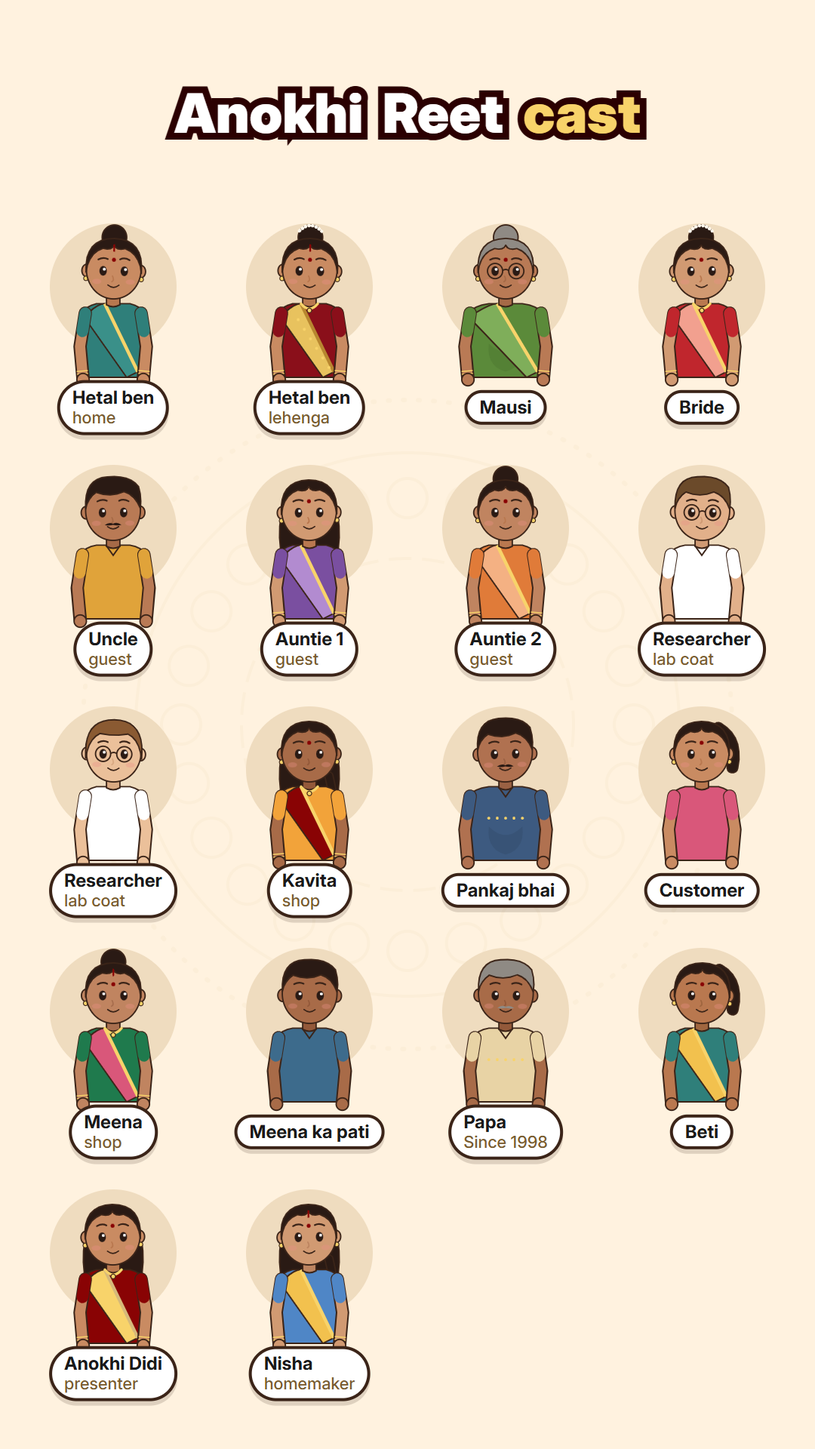
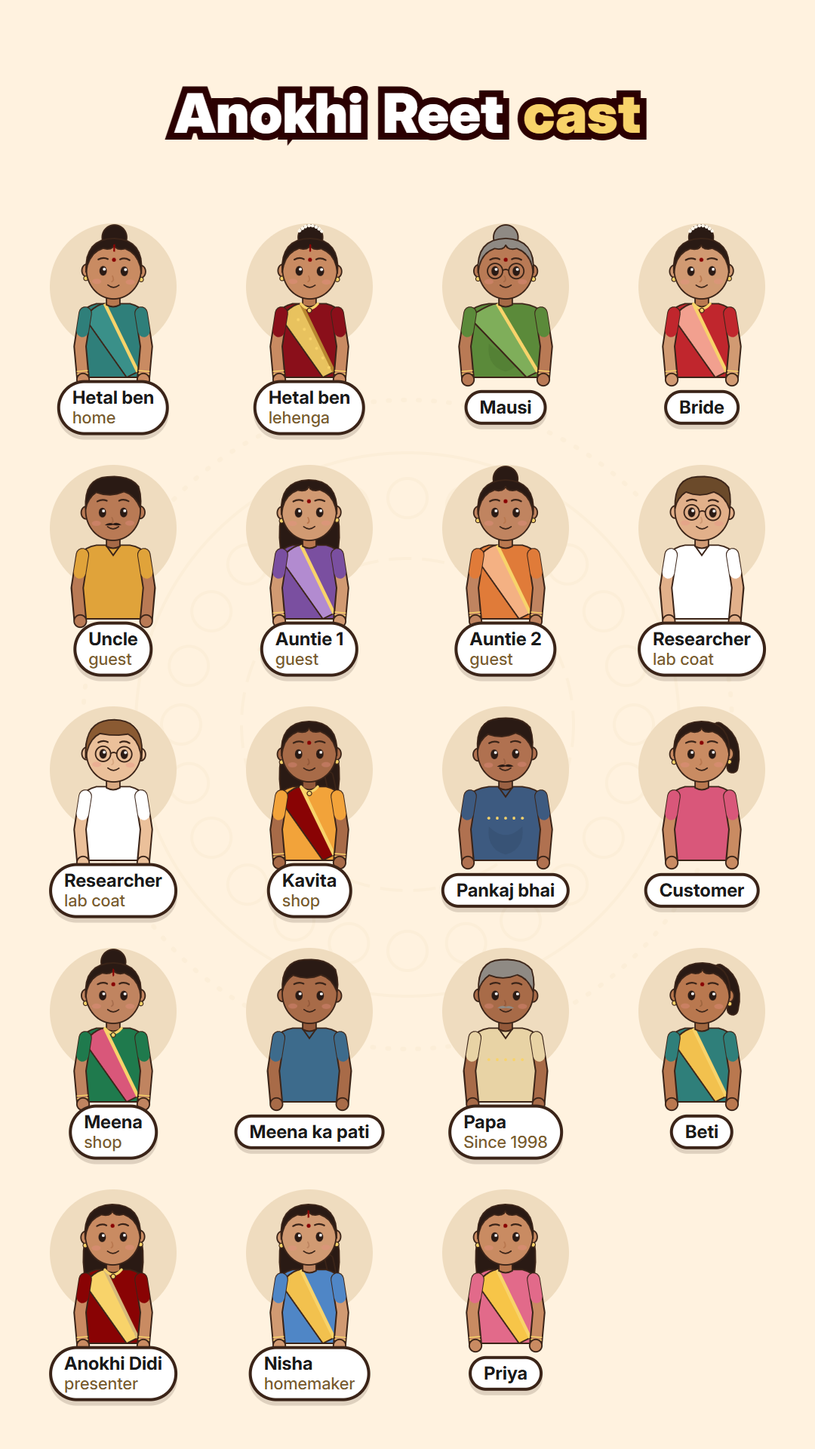
Lehenga almirah (Priya): 11 scenes + fixed counter, video 1; thought cloud, labelled jars, Priya in the library

Changed region(s): [[0.5194, 0.8125, 0.7028, 0.9688]]

diff --git a/reels/2026-11-27-lehenga-almirah/video/scenes.js b/reels/2026-11-27-lehenga-almirah/video/scenes.js
@@ -1,32 +1,152 @@
-// ===== Starter reel: copy this folder into reels/<date>-<name>/video and replace everything with your story =====
-// Characters: animation/cast/cast.js. Rooms, props, helpers: animation/engine/. Guide: animation/GUIDE.md.
+// ===== Lehenga aaya… phir almirah mein (Priya): 13 scenes + a counter fixed top-left for the whole reel =====
+// Characters: PRIYA (new). Props: thoughtCloudSVG, labelJarSVG (new); almirahSVG, coinJarSVG/jarFill, saveIconSVG, arHeader.
+const PH = PRIYA.home, PLEH = PRIYA.lehenga;
+const at = (x, y, inner, sc = 1, r = 0) => `<g transform="translate(${x},${y}) rotate(${r}) scale(${sc})">${inner}</g>`;
+const wrap = (id, inner) => `<g id="${id}">${inner}</g>`;
+const LOOKS = [[C.emerald, C.emeraldDark, '#A6D3B0'], [C.marigold, '#C9821E', '#F7C548'], [C.teal, C.tealDark, '#9ED3CF'], ['#7A4FA0', '#5D3A7E', '#B28BD0']];
+const lookOf = ([c, d, p]) => dress(PLEH, { top: c, topD: d, pallu: p, border: C.gold, skirt: { c, d, b: C.gold } });
+const dust = id => [...Array(7)].map((_, i) => `<circle id="${id}${i}" r="${26 + (i % 3) * 10}" fill="#CFC6B8" opacity="0"/>`).join('');
+function dustPuff(id, t, t0, x, y) { for (let i = 0; i < 7; i++) { const k = clamp((t - t0) / .9), a = i / 7 * Math.PI * 2; tf($(id + i), x + Math.cos(a) * k * 170, y + Math.sin(a) * k * 70 - k * 40, .5 + k); op($(id + i), k > 0 && k < 1 ? (1 - k) * .9 : 0); } }
 
-// S1 hook: the strongest picture + an outlined title in the first frame
-addScene(0, 'c3', {
-  svg: homeBG('st1', { noWindow: true, noShelf: true, noClock: true }) + `<circle cx="540" cy="800" r="420" fill="url(#glow)"/>` +
-    `<g id="st1-l">${lehengaHangerSVG('st1-lh')}</g>` +
-    `<g transform="translate(790,560)"><g data-t="c2+0.3" data-swing="9">${priceTagSVG('st1-tag', '1 baar?', 0, 0, { fs: 36 })}</g></g>`,
-  html: `<div class="title" style="top:392px">Shaadi ka outfit,<br><span class="g">kitni baar?</span></div>`,
-  cam: [1, 1.05], fy: 800,
-  upd(t) { tf($('st1-l'), 540, 720 + Math.sin(t * 1.4) * 6, 1.25, noise(t, 1) * 2, 0, -80); }
-});
-
-// S2 meet the character: name pill, a wave, eyes on camera, then a look at the outfit
-addScene('c3', 'c4', {
-  svg: homeBG('st2') + stand('st2h', dress(HETAL.home, { top: C.pink, topD: C.pinkDark, pallu: '#F4B9C8' }), 560, 940, .95),
-  html: pillH(540, 352, 'c3+0.3', 'Surat, <span class="hl">Gujarat</span>'),
+// ================= the counter, top-left, whole reel (added first so every other scene stays "current") =================
+addScene(0, 9999, {
+  html: `<div id="cnt" style="position:absolute;left:36px;top:262px;background:#fff;border:4px solid #3B2418;border-radius:22px;padding:10px 20px;font-weight:800;font-size:32px;color:#1A1A1A;box-shadow:0 6px 0 rgba(59,36,24,.16)">` +
+    `Kharcha: <span id="cnt-k" style="color:#890304">₹0</span> &nbsp;|&nbsp; <span id="cnt-l">Pehna</span>: <span id="cnt-p" style="color:#890304">0</span></div>`,
   upd(t) {
-    const w = clamp((t - T('c3')) / .35);
-    const R = [lerp(9, WAVE(t, T('c3'))[0], E.io(w)), lerp(-14, WAVE(t, T('c3'))[1], E.io(w))];
-    life('st2h', t, { mouth: 'big', brows: 'up', R, hR: w > .5 ? 'open' : 'fist', tilt: 4, look: [0.2, 0] });
-    clockTick('st2-clk', t, 50);
+    const green = t > T('c28');
+    const [k, p] = green ? ['₹10,000', '4'] : t > T('c9') ? ['₹38,000', '2'] : t > T('c3') + .4 ? ['₹19,000', '1'] : ['₹0', '0'];
+    $('cnt-k').textContent = k; $('cnt-p').textContent = p; $('cnt-l').textContent = green ? 'Looks' : 'Pehna';
+    const c = green ? '#1F7A4D' : '#890304'; $('cnt-k').style.color = c; $('cnt-p').style.color = c;
+    const box = $('cnt'); box.style.background = green ? '#E3F3EA' : '#fff'; box.style.borderColor = green ? '#1F7A4D' : '#3B2418';
+    const flips = [T('c3') + .4, T('c9'), T('c28')].map(f => clamp((t - f) / .3)).map(q => q > 0 && q < 1 ? Math.sin(q * Math.PI) : 0);
+    box.style.transform = `scale(${(1 + Math.max(...flips) * .12).toFixed(3)})`; box.style.transformOrigin = 'left center';
+    box.style.display = t < VOICE_END + .2 ? '' : 'none';
   }
 });
 
-// S3 follow card
-addScene('c4', 9999, {
-  svg: homeBG('st3', { noWindow: true, noShelf: true, noClock: true }) + rosettes('st3-r', 540, 780, .1, C.goldTan) + bust('st3h', HETAL.home, 540, FLOOR + 10, 1.1) + counterSVG(),
-  html: `<div class="follow" style="left:540px;top:500px" data-t="c4+0.2"><img class="seal" src="${SEAL()}"><span class="nm">Anokhi Reet</span><span class="btn">Follow</span></div>`,
-  noWm: true, tin: .3, trans: 'rise',
-  upd(t) { tf($('st3-r'), 540, 780, 1, t * 5); life('st3h', t, { pivot: 0, mouth: 'grin', brows: 'up', tilt: 4, L: CLASP, R: CLASP }); }
+// ================= S1: hook — a ₹19,000 lehenga, worn only ONCE =================
+addScene(0, 'c3', {
+  svg: homeBG('p1', { noWindow: true, noShelf: true, noClock: true }) + almirahSVG('a1', 840, FLOOR + 62, .9) + stand('pr1', PH, 380, 950, .9) + wrap('p1-lh', lehengaHangerSVG('p1-l', {}, .62)),
+  html: `<div class="title" style="top:500px"><span class="g">₹19,000</span> ka lehenga…<br>pehna sirf <span class="g">EK</span> baar</div>`,
+  upd(t) {
+    const turn = t > T('c2');
+    const { hr } = life('pr1', t, { look: turn ? [0.9, 0] : [0.3, -0.6], mouth: turn ? 'flat' : 'grin', brows: turn ? 'worry' : 'up', tilt: turn ? -3 : 5, R: [150, 20], hR: 'fist' });
+    const p = toScene('pr1', hr); tf($('p1-lh'), p[0] + 10, p[1] + 80, 1, noise(t, 1) * 4);
+  }
+});
+
+// ================= S2: cousin's wedding — photos ✓ compliments ✓ =================
+addScene('c3', 'c6', {
+  svg: weddingBG() + stand('pr2', PLEH, 540, 960, .9) + stand('g2a', GUEST_W1, 170, 1000, .7) + stand('g2b', GUEST_W2, 910, 1000, .7) +
+    [[300, 620], [780, 600], [540, 520]].map(([x, y], i) => `<g transform="translate(${x},${y})"><g data-t="c4+${(.3 + i * .25).toFixed(2)}" data-bob="10" data-ph="${i}">${heartPath(0, 0, 2.2)}</g></g>`).join('') +
+    `<rect id="p2-fl" width="${W}" height="${H}" fill="#fff" opacity="0"/>`,
+  html: pillH(220, 1240, 'c5', 'Photos ✓', 'green big') + pillH(680, 1240, 'c5+0.5', 'Compliments ✓', 'green big'),
+  upd(t) {
+    op($('p2-fl'), [T('c5') + .05, T('c5') + .6].some(f => t > f && t < f + .12) ? .7 : 0);
+    life('pr2', t, { mouth: 'grin', brows: 'up', tilt: 5, L: CLASP, R: CLASP, y: hop(t, T('c5') + .2, 14), blush: .5 });
+    life('g2a', t, { seed: 2, look: [0.9, 0], mouth: 'big', brows: 'up', R: [100, -100], hR: 'fist' }); life('g2b', t, { seed: 5, look: [-0.9, 0], mouth: 'grin', brows: 'up', L: [100, -100], hL: 'fist' });
+  }
+});
+
+// ================= S3: wedding over… back in the ALMIRAH (door slams, dust puff) =================
+addScene('c6', 'c8', {
+  svg: homeBG('p3', { noWindow: true, noShelf: true, noClock: true }) + almirahSVG('a3', 540, FLOOR + 62, 1.25) + wrap('p3-fly', lehengaHangerSVG('p3-l', {}, .7)) + dust('p3-d'),
+  html: `<div class="title" style="top:430px" data-t="c7+0.3">wapas <span class="g">ALMIRAH</span> mein</div>`,
+  cam: [1, 1.04],
+  upd(t) {
+    const k = E.io(clamp((t - T('c6') - .2) / .7)); tf($('p3-fly'), lerp(220, 540, k), lerp(700, FLOOR - 450, k) - Math.sin(k * Math.PI) * 120, 1); op($('p3-fly'), k < 1 ? 1 : 0);
+    const shut = E.in(clamp((t - T('c7') - .05) / .25)); tf($('a3-dL'), 0, 0, lerp(.13, 1, shut), 0, -150, 0, 1); tf($('a3-dR'), 0, 0, lerp(.13, 1, shut), 0, 150, 0, 1);
+    dustPuff('p3-d', t, T('c7') + .3, 540, FLOOR - 200);
+  }
+});
+
+// ================= S4: the next wedding — "Ye wala toh sabne photos mein dekh liya…" — new one again =================
+addScene('c8', 'c10', {
+  svg: homeBG('p4', { noWindow: true, noShelf: true, noClock: true }) + almirahSVG('a4', 790, FLOOR + 62, .95) + stand('pr4', PH, 330, 950, .9) +
+    `<g transform="translate(560,700)"><g data-t="c8" data-k="drop" data-d=".5">${at(0, 0, cardSVG('p4-card', 0, 0, 2), .62, 10)}</g></g>`,
+  html: `<div class="bubble" style="left:560px;top:450px;width:600px" data-t="c8+0.6">"Ye wala toh <span class="hl">sabne photos</span> mein dekh liya…"</div>`,
+  init() { $('a4-inside').innerHTML = `<g transform="translate(0,-330)">${lehengaHangerSVG('p4-l', {}, .75)}</g>`; },
+  upd(t) {
+    const open = E.io(clamp((t - T('c8') - .3) / .5)); tf($('a4-dL'), 0, 0, lerp(1, .13, open), 0, -150, 0, 1); tf($('a4-dR'), 0, 0, lerp(1, .13, open), 0, 150, 0, 1);
+    life('pr4', t, { look: [0.9, 0], mouth: t > T('c8') + .6 ? 'sad' : 'o', brows: 'worry', tilt: -5, R: t > T('c9') ? THINK : [9, -14], hR: 'fist' });
+  }
+});
+
+// ================= S5: open loop — money, liking… so where was the mistake? =================
+addScene('c10', 'c12', {
+  svg: `<rect width="${W}" height="${H}" fill="url(#mar)"/>` + rosettes('p5-r', 540, 900, .14, C.gold) + `<g transform="translate(540,960)"><g data-t="c11"><circle r="150" fill="${C.gold}" stroke="${OL}" stroke-width="${OW}"/><text y="70" text-anchor="middle" font-family="Inter" font-weight="900" font-size="200" fill="${C.redDark}">?</text></g></g>`,
+  html: `<div class="title" style="top:480px;font-size:72px">Paisa tha, pasand bhi tha…</div><div class="title" style="top:640px;font-size:80px" data-t="c11">toh <span class="g">galti kahan</span> hui?</div>`,
+  tin: .3, trans: 'zoom',
+  upd(t) { tf($('p5-r'), 540, 900, 1, t * 6); }
+});
+
+// ================= S6: Richard Thaler — MENTAL ACCOUNTING — money in separate jars =================
+const JARS = [['Grocery', C.teal, 260], ['Bills', '#7A6E62', 540], ['SHAADI', C.red, 820]];
+addScene('c12', 'c19', {
+  svg: homeBG('p6', { noWindow: true, noShelf: true, noClock: true, noPlant: true }) +
+    `<g id="p6-cl"><g transform="translate(540,600)"><g data-t="c12">${thoughtCloudSVG(820, 300)}<text y="-30" text-anchor="middle" font-family="Inter" font-weight="700" font-size="34" fill="#655C57">Nobel winner Richard Thaler</text><text y="36" text-anchor="middle" font-family="Inter" font-weight="900" font-size="54" fill="${C.red}">MENTAL ACCOUNTING</text></g></g></g>` +
+    JARS.map(([l, c, x], i) => `<g transform="translate(${x},1040)"><g data-t="c14+${(i * .25).toFixed(2)}" data-k="drop">${at(0, 0, labelJarSVG('p6-j' + i, l, c, 6), .78)}</g></g>`).join('') +
+    [...Array(6)].map((_, i) => `<g id="p6-o${i}" opacity="0">${i % 2 ? noteSVG() : coinSVG(0, 0, 30)}</g>`).join(''),
+  html: `<div class="title" style="top:600px;font-size:66px;opacity:0" id="p6-m">₹19,000 ÷ 1 baar =<br><span class="g">₹19,000 per look</span></div>`,
+  upd(t) {
+    jarFill('p6-j0j', 3, t, T('c14') + .4, .6); jarFill('p6-j1j', 4, t, T('c14') + .6, .6); jarFill('p6-j2j', 6, t, T('c15') + .2, 1.0);
+    for (let i = 0; i < 6; i++) { const q = ((t - T('c16') - i * .3) % 1.8) / 1.8; tf($('p6-o' + i), 820 + (i - 2.5) * 30 + q * (i - 2.5) * 50, 930 - E.out(clamp(q)) * 200, .8, (i - 2.5) * q * 40); op($('p6-o' + i), t > T('c16') && q > 0 ? 1 - q : 0); }
+    const mm = clamp((t - T('c18')) / .3); $('p6-m').style.opacity = mm.toFixed(2); op($('p6-cl'), 1 - mm);
+  }
+});
+
+// ================= S7: the renter's fear — answered: Verified profiles ✓ =================
+addScene('c19', 'c23', {
+  svg: homeBG('p7', { noWindow: true, noShelf: true, noClock: true }) + bust('pr7', PH, 540, FLOOR + 30, 1.05) + counterSVG(),
+  html: `<div class="bubble" style="left:250px;top:470px" data-t="c19">"Rent?"</div>` + `<div class="bubble" style="left:760px;top:560px" data-t="c19+0.5">"Fit nahi aaya toh?"</div>` + `<div class="bubble" style="left:330px;top:660px" data-t="c20">"Kaun hai owner?"</div>` +
+    pillH(540, 1240, 'c22', '✓ Verified profiles', 'green big'),
+  upd(t) { const ok = t > T('c22') + .2; life('pr7', t, { pivot: 0, look: ok ? [0, 0.4] : [Math.sin(t * 2) * .7, -0.5], mouth: ok ? 'smile' : 'worry', brows: ok ? 'up' : 'worry', tilt: ok ? 4 : -5, R: ok ? [9, -14] : THINK, hR: 'fist', sweat: ok ? 0 : .8 }); }
+});
+
+// ================= S8: this time Priya rented the same designer lehenga on Anokhi Reet… ₹2,500 =================
+addScene('c23', 'c26', {
+  svg: homeBG('p8', { noWindow: true, noShelf: true, noClock: true }) + bust('pr8', PH, 250, FLOOR + 40, .85) + counterSVG() +
+    at(700, 820, phoneSVG('p8-ph', 0, 0, 560, 1000, arHeader() +
+      `<rect x="-240" y="-370" width="480" height="430" rx="20" fill="${C.cream}"/><g transform="translate(0,-230) scale(.62)">${lehengaHangerSVG('', {})}</g>` +
+      `<text x="-230" y="110" font-family="Inter" font-weight="900" font-size="36" fill="#141110">Designer lehenga</text>` +
+      `<g data-t="c24"><text x="-230" y="170" font-family="Inter" font-weight="700" font-size="32" fill="#9C928A" text-decoration="line-through">MRP ₹19,000</text></g>` +
+      `<g data-t="c25-0.1"><rect x="-240" y="200" width="300" height="76" rx="38" fill="#E3F3EA" stroke="#1F7A4D" stroke-width="3"/><text x="-90" y="252" text-anchor="middle" font-family="Inter" font-weight="900" font-size="38" fill="#1F7A4D">Rent ₹2,500</text></g>` +
+      `<rect x="-240" y="310" width="480" height="76" rx="38" fill="url(#mar)"/><text x="0" y="360" text-anchor="middle" font-family="Inter" font-weight="800" font-size="32" fill="#FFF2DF">Book karo</text>`), .78),
+  upd(t) { life('pr8', t, { pivot: 0, look: [0.9, 0], mouth: t > T('c25') ? 'grin' : 'smile', brows: 'up', tilt: 4, R: [70, 4], hR: 'point' }); }
+});
+
+// ================= S9: next 4 weddings, 4 different lehengas — total ₹10,000 =================
+const GRID = [[270, 700], [810, 700], [270, 1110], [810, 1110]];
+addScene('c26', 'c29', {
+  svg: `<rect width="${W}" height="${H}" fill="${C.cream}"/>` + GRID.map(([x, y], i) => `<g transform="translate(${x},${y})"><g data-t="c26+${(.3 + i * .35).toFixed(2)}"><rect x="-250" y="-200" width="500" height="400" rx="26" fill="${['#F7DCC8', '#F3E3C0', '#E6F2EE', '#EEE3F3'][i]}" stroke="${OL}" stroke-width="${OW}"/><clipPath id="p9c${i}"><rect x="-250" y="-200" width="500" height="400" rx="26"/></clipPath><g clip-path="url(#p9c${i})">${bust('pr9' + i, lookOf(LOOKS[i]), 0, 330, .7)}</g><g transform="translate(-200,-150)"><circle r="34" fill="url(#mar)" stroke="${OL}" stroke-width="3"/><text y="12" text-anchor="middle" font-family="Inter" font-weight="900" font-size="34" fill="${C.gold}">${i + 1}</text></g></g></g>`).join(''),
+  html: `<div class="title" style="top:420px" data-t="c27">4 shaadi, <span class="g">4 looks</span></div>`,
+  upd(t) { for (let i = 0; i < 4; i++) life('pr9' + i, t, { pivot: 0, seed: i, mouth: 'grin', brows: 'up', tilt: i % 2 ? -4 : 4, L: CLASP, R: CLASP }); }
+});
+
+// ================= S10: the lesson =================
+addScene('c29', 'c32', {
+  svg: `<rect width="${W}" height="${H}" fill="${C.cream}"/>` + rosettes('p10-r', 540, 880, .12, C.goldTan) + `<rect x="0" y="${FLOOR + 80}" width="${W}" height="${H}" fill="#F3E3C0"/>` + stand('pr10', lookOf(LOOKS[1]), 540, 1000, .82),
+  html: `<div class="title" style="top:390px;font-size:50px" data-t="c29">Lehenga khareedna <span class="g">zaroori nahi</span>…</div>` +
+    `<div class="title" style="top:490px;font-size:56px" data-t="c30">har function mein <span class="g">NAYA</span> dikhna!</div>`,
+  tin: .35, trans: 'fade', cam: [1, 1.04],
+  upd(t) { tf($('p10-r'), 540, 880, 1, t * 5); const o = E.io(clamp((t - T('c30')) / .5)); life('pr10', t, { mouth: 'grin', brows: 'sure', tilt: 3, sway: 2.4, L: [lerp(9, 62, o), lerp(-14, -36, o)], R: [lerp(9, 62, o), lerp(-14, -36, o)], hL: o > .5 ? 'open' : 'fist', hR: o > .5 ? 'open' : 'fist' }); }
+});
+
+// ================= S11: save, send to a friend, comment LEHENGA; link in bio + follow =================
+addScene('c32', 9999, {
+  svg: homeBG('p11', { noWindow: true, noShelf: true, noClock: true }) + rosettes('p11-r', 540, 780, .08, C.goldTan) + bust('pr11', lookOf(LOOKS[0]), 540, FLOOR + 10, 1.1) + counterSVG() +
+    `<g transform="translate(870,620)"><g data-t="c33+0.3" data-out="c38+0.4" data-swing="8">${saveIconSVG()}</g></g>`,
+  html: pillH(870, 740, 'c33+0.5', '<span class="hl">SAVE</span> karo', 'gold', 'c38+0.4') + pillH(540, 380, 'c34', 'Friend ko <span class="hl">bhejo</span> 📩', 'big', 'c37-0.05') +
+    `<div class="pill big" style="left:540px;top:380px" data-t="c37">Comment <span class="hl">LEHENGA</span> 👇</div>` +
+    `<div class="pill" style="left:540px;top:480px" data-t="c38">🔗 Link in bio</div>` +
+    `<div class="follow" style="left:540px;top:600px" data-t="c38+0.6"><img class="seal" src="${SEAL()}"><span class="nm">Anokhi Reet</span><span class="btn" id="p11-b"><span id="p11-f">Follow</span></span></div>`,
+  noWm: true,
+  upd(t) {
+    tf($('p11-r'), 540, 780, 1, t * 5);
+    const w = clamp((t - T('c37')) / .4), pt = t > T('c33') && t < T('c34');
+    life('pr11', t, { pivot: 0, mouth: 'big', brows: 'up', tilt: 4, look: pt ? [0.8, -0.4] : [0, 0], R: pt ? [100, -10] : [lerp(9, WAVE(t, T('c37'))[0], E.io(w)), lerp(-14, WAVE(t, T('c37'))[1], E.io(w))], hR: pt ? 'point' : (w > .5 ? 'open' : 'fist') });
+    const tp = VOICE_END + .6, press = t > tp && t < tp + .25 ? .92 : 1;
+    const b = $('p11-b'); b.style.transform = `scale(${press})`; b.style.display = 'inline-block';
+    const done = t > tp + .12; $('p11-f').textContent = done ? 'Following ✓' : 'Follow'; b.style.background = done ? '#E3F3EA' : '#890304'; b.style.color = done ? '#1F7A4D' : '#FFF2DF';
+  }
 });

diff --git a/reels/2026-11-27-lehenga-almirah/video/captions.js b/reels/2026-11-27-lehenga-almirah/video/captions.js
@@ -1,11 +1,89 @@
 // Caption chunks: [id, Roman Hinglish caption (*gold* words), number of script.txt words it covers]
-// tools/caption_timing.py fills STARTS / VOICE_END / DURATION from the voice (re-run after every voice take).
+// tools/caption_timing.py fills STARTS / WORDS / VOICE_END / DURATION from the voice (re-run after every voice take).
 const CHUNKS = [
-  ['c1', 'Ek *sawaal*:', 2],
-  ['c2', 'shaadi ka outfit *kitni baar* pehnte ho?', 6],
-  ['c3', 'Ye hain *Hetal ben*.', 4],
-  ['c4', 'Follow karo *Anokhi Reet.*', 4],
+  ['c1', '*₹19,000* ka lehenga...', 4],
+  ['c2', 'pehna sirf *ek baar.*', 4],
+  ['c3', 'Priya ne cousin ki shaadi ke liye', 7],
+  ['c4', 'naya lehenga liya.', 3],
+  ['c5', 'Photos... compliments... sab mila.', 4],
+  ['c6', 'Shaadi khatam...', 2],
+  ['c7', 'aur lehenga, wapas *almari* mein.', 5],
+  ['c8', 'Agli shaadi aayi...', 3],
+  ['c9', 'aur phir se *naya* chahiye.', 5],
+  ['c10', 'Paisa tha, pasand bhi tha...', 5],
+  ['c11', 'toh *galti kahan* hui?', 4],
+  ['c12', 'Nobel winner *Richard Thaler* kehte hain...', 6],
+  ['c13', 'hum paise ko alag-alag', 4],
+  ['c14', '*dabbon* mein rakhte hain.', 4],
+  ['c15', '"Shaadi ke dabbe" mein', 4],
+  ['c16', '₹19,000 *normal* lagta hai.', 5],
+  ['c17', 'Par asli sawaal hai...', 4],
+  ['c18', '*per wear* kitna pada?', 4],
+  ['c19', '"Rent? Fit nahi aaya toh?', 5],
+  ['c20', 'Kaun hai owner?"', 3],
+  ['c21', 'Yahi *darr* hume', 3],
+  ['c22', 'rent karne se rokta hai.', 5],
+  ['c23', 'Is baar Priya ne *Anokhi Reet* pe', 7],
+  ['c24', 'wahi designer lehenga rent kiya...', 5],
+  ['c25', '*₹2,500* mein.', 3],
+  ['c26', 'Agli chaar shaadi,', 3],
+  ['c27', '*chaar alag* lehenge...', 3],
+  ['c28', 'total *₹10,000.*', 3],
+  ['c29', 'Lehenga khareedna zaroori nahi...', 4],
+  ['c30', 'har function mein *naya*', 4],
+  ['c31', 'dikhna zaroori hai.', 3],
+  ['c32', 'Shaadi season se pehle', 4],
+  ['c33', 'is reel ko *save* karo,', 5],
+  ['c34', 'aur us friend ko bhejo', 5],
+  ['c35', 'jo har shaadi ke liye', 5],
+  ['c36', 'naya leti hai.', 3],
+  ['c37', '*LEHENGA* comment karo...', 3],
+  ['c38', 'link DM karte hain.', 4],
 ];
-// Chunk start times (s): placeholder until a voice exists.
-const STARTS = [0.2, 1.6, 4.4, 6.6];
-const VOICE_END = 8.6, DURATION = 9.6;
+
+// Chunk start times (s): tools/caption_timing.py (faster-whisper, 147 of 157 words matched), voice female-lehenga-almirah-take1.mp3.
+const STARTS = [
+  0.19, 1.62, 3.28, 5.28, 6.04, 8.37, 8.96, 11.31, 12.27, 13.26, 15.26, 16.60, 19.20, 20.36, 21.46, 22.42,
+  24.01, 25.16, 27.01, 28.84, 30.30, 30.96, 32.47, 34.42, 35.86, 37.44, 38.70, 39.75, 41.08, 43.06, 44.18, 45.17,
+  46.32, 47.56, 48.46, 49.44, 50.44, 51.66];
+// When each script word of a chunk is spoken (drives the word-by-word highlight).
+const WORDS = [
+  [0.27, 0.82, 1.18, 1.32],
+  [1.7, 2.46, 2.94, 3.06],
+  [3.36, 4.13, 4.32, 4.74, 4.88, 5.12, 5.24],
+  [5.36, 5.56, 5.88],
+  [6.12, 7.02, 7.82, 7.94],
+  [8.45, 8.5],
+  [9.04, 9.48, 9.9, 10.54, 10.88],
+  [11.39, 11.44, 11.9],
+  [12.35, 12.4, 12.74, 12.9, 13.1],
+  [13.34, 14.26, 14.6, 15.04, 15.16],
+  [15.34, 15.76, 16.26, 16.54],
+  [16.68, 17.64, 17.92, 18.34, 18.62, 18.92],
+  [19.28, 19.42, 19.82, 19.98],
+  [20.44, 20.74, 20.82, 21.06],
+  [21.54, 21.92, 22.08, 22.34],
+  [22.5, 22.88, 23.18, 23.48, 23.74],
+  [24.09, 24.14, 24.8, 25.1],
+  [25.24, 25.61, 26.22, 26.54],
+  [27.09, 27.72, 28.05, 28.44, 28.66],
+  [28.92, 29.27, 29.62],
+  [30.38, 30.6, 30.82],
+  [31.04, 31.34, 31.6, 31.78, 32.16],
+  [32.55, 33.0, 33.18, 33.44, 33.64, 34.1, 34.3],
+  [34.5, 34.9, 35.32, 35.58, 35.82],
+  [35.94, 36.02, 36.96],
+  [37.52, 37.82, 38.18],
+  [38.78, 38.83, 38.88],
+  [39.83, 40.2, 40.62],
+  [41.16, 41.8, 42.34, 42.64],
+  [43.14, 43.19, 43.7, 43.96],
+  [44.26, 44.54, 44.88],
+  [45.25, 45.76, 46.04, 46.16],
+  [46.4, 46.56, 46.8, 46.94, 47.22],
+  [47.64, 47.76, 47.98, 48.24, 48.3],
+  [48.54, 48.72, 49.0, 49.3, 49.44],
+  [49.52, 49.84, 50.06],
+  [50.52, 50.98, 51.28],
+  [51.74, 51.84, 52.24, 52.5]];
+const VOICE_END = 52.59, DURATION = 56.0; // DURATION held ~2 s longer for the end card (re-set after re-timing)

diff --git a/animation/engine/props.js b/animation/engine/props.js
@@ -1137,3 +1137,17 @@ function commentType(id, t, t0, word, w = 720, cps = 6) {
   const tw = n ? el.getBBox().width : 0; $(id + '-cur').setAttribute('x', -w / 2 + 104 + tw); op($(id + '-cur'), t > t0 - 1 && Math.floor(t * 2.4) % 2 ? 1 : 0);
   $(id + '-post').setAttribute('fill', n === word.length ? '#1877F2' : '#9DC4F0');
 }
+
+// ===== Lehenga almirah (2026-11-28): thought cloud, labelled money jar =====
+// thoughtCloudSVG(w, h): a puffy white thought cloud centred on (0,0) with two small tail puffs at bottom-left
+function thoughtCloudSVG(w = 760, h = 300) {
+  const n = 9, rx = w / 2, ry = h / 2;
+  let puffs = '';
+  for (let i = 0; i < n; i++) { const a = i / n * Math.PI * 2; puffs += `<circle cx="${(Math.cos(a) * rx * .82).toFixed(0)}" cy="${(Math.sin(a) * ry * .78).toFixed(0)}" r="${(Math.min(rx, ry) * .55).toFixed(0)}"/>`; }
+  return `<g fill="#fff" stroke="${OL}" stroke-width="${OW}">${puffs}</g><g fill="#fff">${puffs.replace(/r="(\d+)"/g, (m, r) => `r="${r - 5}"`)}<ellipse rx="${rx * .86}" ry="${ry * .8}"/></g>` +
+    `<circle cx="${-rx * .55}" cy="${ry + 40}" r="26" fill="#fff" stroke="${OL}" stroke-width="${OW}"/><circle cx="${-rx * .7}" cy="${ry + 90}" r="15" fill="#fff" stroke="${OL}" stroke-width="${OW}"/>`;
+}
+// labelJarSVG(id, label, col, n): a money jar with a label strip; n coins `${id}-k<i>` inside (show with jarFill)
+function labelJarSVG(id, label, col = C.goldTan, n = 6) {
+  return `<g id="${id}">${coinJarSVG(id + 'j', n, '')}<g transform="translate(0,40)"><rect x="-120" y="-34" width="240" height="68" rx="12" fill="${col}" stroke="${OL}" stroke-width="4"/><text y="12" text-anchor="middle" font-family="Inter" font-weight="900" font-size="34" fill="#fff">${label}</text></g></g>`;
+}

diff --git a/animation/cast/sheet/video/scenes.js b/animation/cast/sheet/video/scenes.js
@@ -2,7 +2,7 @@
 const SHEET = [
   ['cs1', 'Hetal ben', 'home', HETAL.home], ['cs2', 'Hetal ben', 'lehenga', HETAL.lehenga], ['cs3', 'Mausi', '', MAUSI],
   ['cs4', 'Bride', '', BRIDE], ['cs5', 'Uncle', 'guest', GUEST_M], ['cs6', 'Auntie 1', 'guest', GUEST_W1],
-  ['cs7', 'Auntie 2', 'guest', GUEST_W2], ['cs8', 'Researcher', 'lab coat', LAB_M], ['cs9', 'Researcher', 'lab coat', LAB_W], ['cs10', 'Kavita', 'shop', KAVITA.shop], ['cs11', 'Pankaj bhai', '', PANKAJ], ['cs12', 'Customer', '', CUSTOMER_W], ['cs13', 'Meena', 'shop', MEENA.shop], ['cs14', 'Meena ka pati', '', PATI], ['cs15', 'Papa', 'Since 1998', PAPA.shop], ['cs16', 'Beti', '', BETI], ['cs17', 'Anokhi Didi', 'presenter', DIDI], ['cs18', 'Nisha', 'homemaker', NISHA],
+  ['cs7', 'Auntie 2', 'guest', GUEST_W2], ['cs8', 'Researcher', 'lab coat', LAB_M], ['cs9', 'Researcher', 'lab coat', LAB_W], ['cs10', 'Kavita', 'shop', KAVITA.shop], ['cs11', 'Pankaj bhai', '', PANKAJ], ['cs12', 'Customer', '', CUSTOMER_W], ['cs13', 'Meena', 'shop', MEENA.shop], ['cs14', 'Meena ka pati', '', PATI], ['cs15', 'Papa', 'Since 1998', PAPA.shop], ['cs16', 'Beti', '', BETI], ['cs17', 'Anokhi Didi', 'presenter', DIDI], ['cs18', 'Nisha', 'homemaker', NISHA], ['cs19', 'Priya', '', PRIYA.home],
 ];
 const XS = [150, 410, 670, 930], YS = [500, 820, 1140, 1460, 1780];
 addScene(0, 99, {

diff --git a/animation/cast/cast.js b/animation/cast/cast.js
@@ -238,3 +238,9 @@ const KABIR_DOST = [['Sahil', '#E8822E', '#D9A07A', { mustache: true }], ['Manav
   .map(([name, c, skin, extra]) => ({ name, look: Object.assign({ male: true, skin, skin2: skin, hair: '#1E140F', top: c, topD: c, buttons: true, sleeveTo: .9, pants: { c: '#FFF8EC', d: '#E8DCC8', hem: 220 } }, extra) }));
 const TANVI = { hairStyle: 'long', top: '#F08AAE', topD: '#D9668E', pallu: '#FFD3E2', border: C.gold, earrings: true, bangles: true, skin: '#D19A72', skin2: '#BD8460', pants: { c: '#F6B4C8', d: '#E89AB2', hem: 150 } };
 const PHOTOGRAPHER = { male: true, hat: '#2E2E33', skin: '#A86B48', skin2: '#93593A', hair: '#1E140F', top: '#2E2E33', topD: '#1F1F24', pants: { c: '#3B3A48', d: '#2B2A36', hem: 30 } };
+
+// Priya (20s): buys a new lehenga for every wedding, until she starts renting. Long hair, rose kurti. (Lehenga almirah)
+const PRIYA = {
+  home: { top: '#E26A8A', topD: '#B94D6D', pallu: '#F7C548', border: C.gold, hairStyle: 'long', skin: '#C98B62', skin2: '#B9784F', bangles: true, skirt: { c: '#B94D6D', d: '#93394F', b: C.gold, w: 200 } },
+  lehenga: { top: C.lehenga, topD: C.lehengaDark, pallu: '#E8C25E', border: '#B8862F', embroidery: true, necklace: true, hairStyle: 'long', skin: '#C98B62', skin2: '#B9784F', skirt: {} },
+};

diff --git a/reels/2026-11-27-lehenga-almirah/REEL.md b/reels/2026-11-27-lehenga-almirah/REEL.md
@@ -2,7 +2,7 @@
 
 - **Date started:** 2026-11-27
 - **Made by:** teammate (script, from `Anokhireet_Reel_Script_Lehenga_Almirah.pdf`) + Claude
-- **Status:** script approved; voice take 1 waiting for a listen
+- **Status:** video 1 rendered (2026-11-28); sent to the teammate
 
 ## Brief
 
@@ -57,12 +57,13 @@ Voice script: [`script.txt`](script.txt) (Devanagari, female voice). Counter = t
 
 ## Voice-over
 
-- Take 1: `output/female-lehenga-almirah-take1.mp3` (52.9 s) — approved: pending
+- Take 1: `output/female-lehenga-almirah-take1.mp3` (52.9 s) — approved: yes (2026-11-28)
 - Captions timed with `tools/caption_timing.py` (redo after every new take)
 
 ## Feedback rounds
 
 1. (round 0) PDF converted; female voice; ₹2,500 told as Priya's story; only "Verified profiles" tick.
+2. Video 1: 11 scenes + fixed counter, `output/2026-11-27-lehenga-almirah.mp4` (56 s; end card held ~3 s).
 
 ## Caption
 
@@ -74,7 +75,10 @@ Ye shaadi season, smart bano. Comment "LEHENGA", app link DM karenge.
 
 ## Added to the library (at least two per reel)
 
-- (planned) Priya in the cast; money jars with labels; a fixed counter overlay; thought cloud; 4-look grid.
+- Props: `thoughtCloudSVG(w, h)`, `labelJarSVG(id, label, col, n)` (money jar with a label strip, coins via `jarFill`).
+- New cast: Priya (`PRIYA.home`, `.lehenga`).
+- A fixed on-screen counter for the whole reel: a scene added FIRST with `addScene(0, 9999, {html, upd})`, so later
+  scenes still count as the current one (watermark, caption position).
 
 ## Suggested default (for the owner)
 
@@ -82,4 +86,6 @@ Ye shaadi season, smart bano. Comment "LEHENGA", app link DM karenge.
 
 ## Lessons
 
--
+- Whisper matched very well (147 of 157 words).
+- Don't name reel constants `PL` (the engine's placement map); a clash stops the whole page ("window.__seek is not a
+  function"). Check the page's console error first.

diff --git a/animation/cast/CAST.md b/animation/cast/CAST.md
@@ -28,6 +28,7 @@ characters are added here after their first reel (add them to `cast.js`, to the 
 | `BETI` | **Beti**, 20s, his daughter. Puts the shop online. | Ponytail, teal kurti, yellow dupatta | Papa aur beti |
 | `DIDI` | **Anokhi Didi**, 30s, presenter who talks to camera ("Toh guys…"). Owner to confirm her name and look. | Long hair, maroon kurta, gold dupatta, necklace | Lehenga 2X (2026-11-18) |
 | `NISHA` | **Nisha**, 30s, homemaker in Surat with 12 lehengas in her almirah; learns to rent them out. | Braid, sindoor, blue kurta, yellow dupatta, blue skirt | ₹2.5 lakh ki almari (2026-11-18) |
+| `PRIYA.home` / `.lehenga` | **Priya**, 20s, buys a new lehenga for every wedding until she starts renting. | Long hair, rose kurti with yellow dupatta; maroon-gold lehenga | Lehenga almirah (2026-11-28) |
 | `HARESH` | **Hareshbhai**, 50s, rental shop owner. Careful, a little doubtful; asks every question before he says yes. | Glasses, moustache, rust kurta | Sawal bahut hain (2026-11-19) |
 | `NEHA` | **Neha**, 20s, friendly Anokhi Reet team member who answers shop owners' questions. | Ponytail, cream kurta, maroon dupatta | Sawal bahut hain |
 | `KOMAL.purani` / `.smart` | **Komal**, 20s, shopping for a reception outfit; shown as two versions of herself (old way vs Anokhi Reet). | Long hair; marigold kurta with pink dupatta (Purani), pink kurta with necklace (Smart) | Dukaan-dukaan ki bhaag-daud (2026-11-19) |

diff --git a/animation/CHANGELOG.md b/animation/CHANGELOG.md
@@ -3,6 +3,13 @@
 Every reel adds at least one improvement to the engine or library and writes it here (newest first).
 See [GUIDE.md](GUIDE.md) section 8.
 
+## 2026-11-28: thought cloud, labelled jars, fixed counter, Priya (Lehenga aaya… phir almirah mein)
+
+- **New props:** `thoughtCloudSVG(w, h)`, `labelJarSVG(id, label, col, n)`.
+- **Fixed on-screen counter** pattern (a box that stays for the whole reel and updates): add a scene FIRST with
+  `addScene(0, 9999, {html, upd})` so every later scene is still the "current" one.
+- **New cast:** Priya (`PRIYA.home`, `.lehenga`).
+
 ## 2026-11-27: wedding arch stage, camera, scissors crop, comment box typing, Kabir and friends (Repeat wala ladka)
 
 - **New props:** `archStageBG(id, {x, w, top, wall})` (peach wedding stage: double marigold toran, a red-and-gold arch
